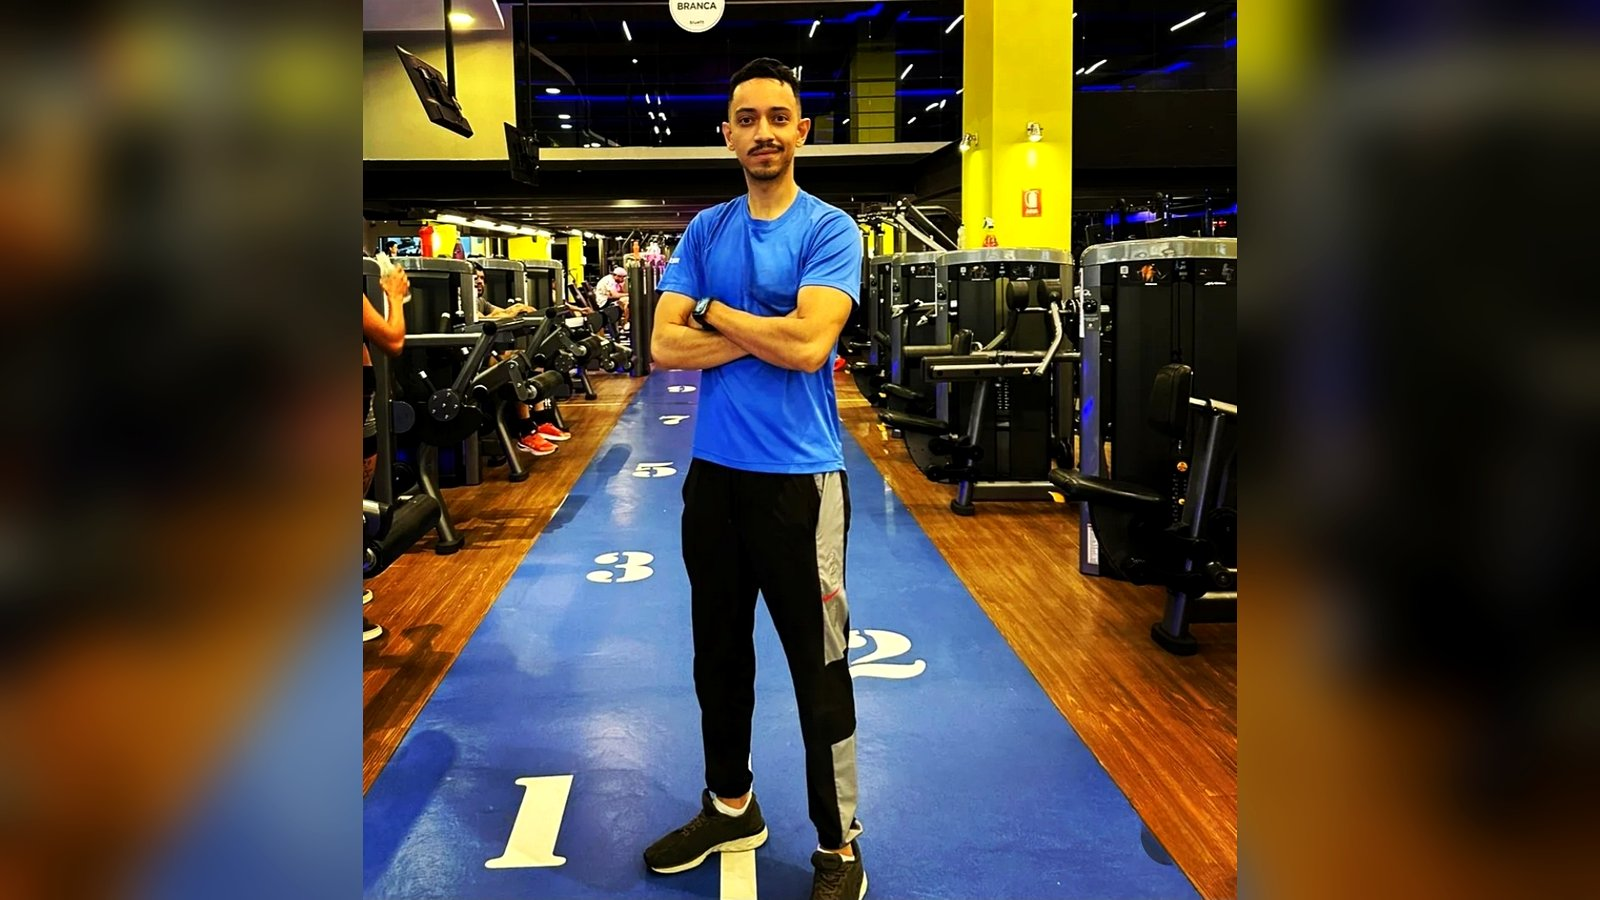
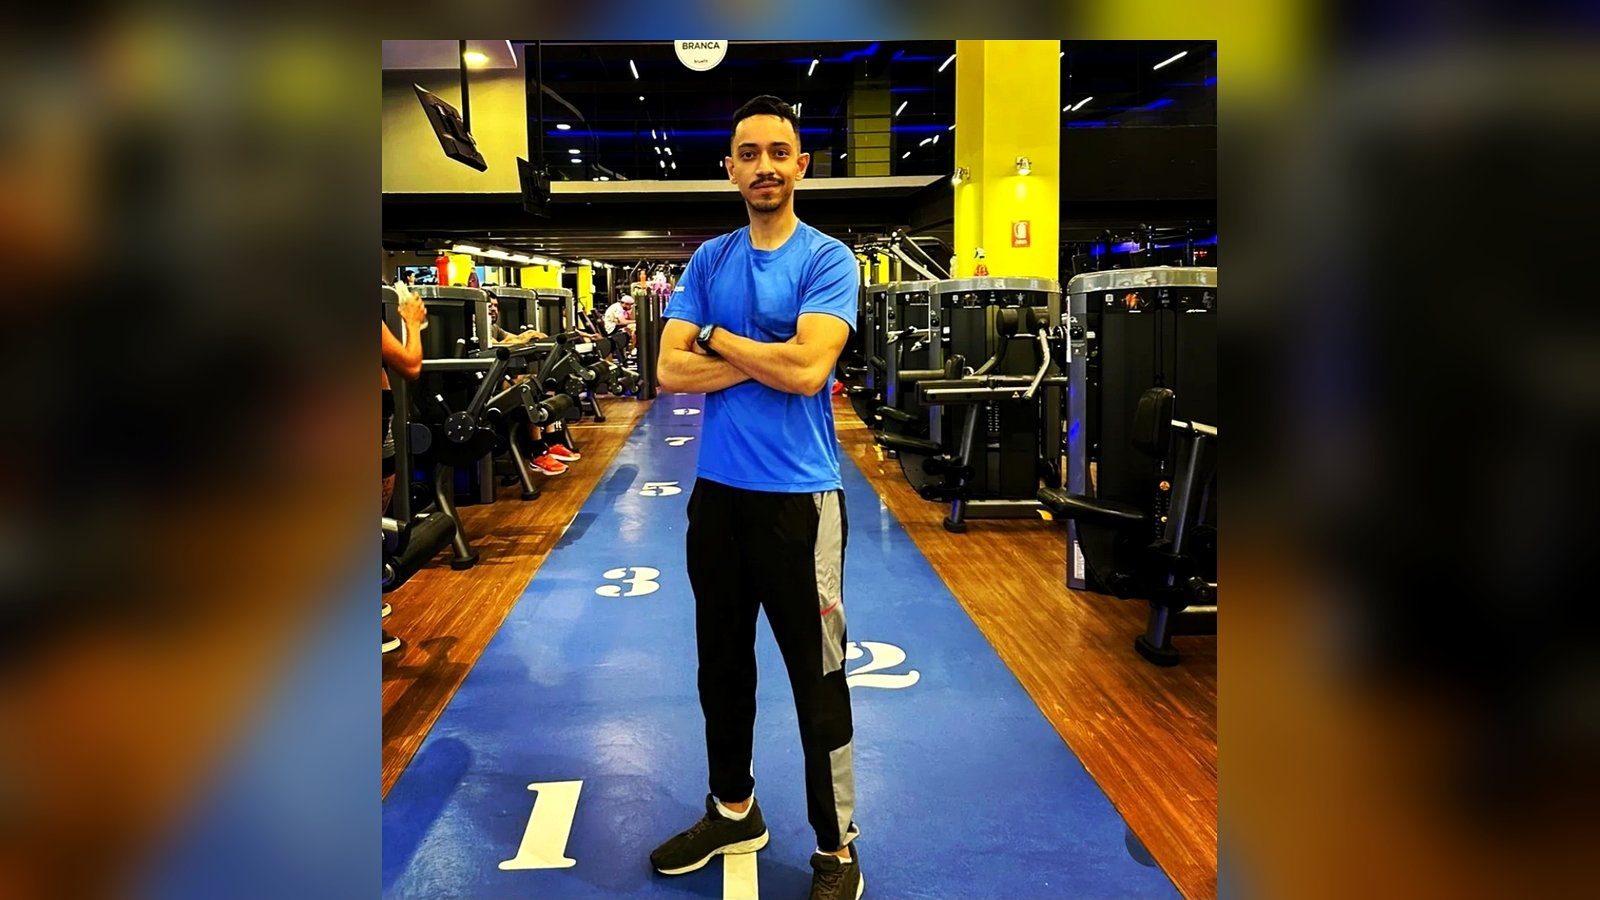
Add files via upload

Changed region(s): [[0.2188, 0.0, 0.7812, 1.0]]

diff --git a/index.html b/index.html
@@ -3,8 +3,23 @@
 <head>
   <meta charset="UTF-8">
   <meta name="viewport" content="width=device-width, initial-scale=1.0">
-  <title>Personal Trainer</title>
-  <meta name="description" content="Treinos personalizados com acompanhamento profissional. Atendimento presencial e consultoria online.">
+  <title>Lucas Lira · Personal Trainer em Goianira</title>
+  <meta name="description" content="Acompanhamento individualizado on-line e presencial em Goianira. +190 alunos transformados com o Método Waze. CREF-GO 15995.">
+    <!-- ===== Compartilhamento social (WhatsApp, Facebook, etc.) ===== -->
+  <meta property="og:type" content="website">
+  <meta property="og:title" content="Lucas Lira · Personal Trainer em Goianira">
+  <meta property="og:description" content="Acompanhamento individualizado on-line e presencial. +190 alunos já transformaram o corpo com o Método Waze. CREF-GO 15995.">
+  <meta property="og:image" content="https://lucaslirapersonal.com.br/img/slide1.jpg">
+  <meta property="og:image:width" content="1600">
+  <meta property="og:image:height" content="900">
+  <meta property="og:url" content="https://lucaslirapersonal.com.br/">
+  <meta property="og:locale" content="pt_BR">
+  <meta property="og:site_name" content="Lucas Lira Personal">
+  <meta name="twitter:card" content="summary_large_image">
+  <meta name="twitter:title" content="Lucas Lira · Personal Trainer em Goianira">
+  <meta name="twitter:description" content="Acompanhamento individualizado on-line e presencial. +190 alunos já transformaram o corpo com o Método Waze.">
+  <meta name="twitter:image" content="https://lucaslirapersonal.com.br/img/slide1.jpg">
+  <meta name="theme-color" content="#0A1628">
   <link rel="preconnect" href="https://fonts.googleapis.com">
   <link rel="preconnect" href="https://fonts.gstatic.com" crossorigin>
   <link href="https://fonts.googleapis.com/css2?family=Anton&family=Inter:wght@400;500;600;700&display=swap" rel="stylesheet">
@@ -82,7 +97,7 @@
     <div class="wrap sobre-in">
       <div class="sobre-img"><img id="img-sobre" src="" alt="Personal trainer em atendimento"></div>
       <div class="sobre-txt">
-        <p class="tag">Bloco A · Quem te acompanha</p>
+        <p class="tag">Sobre o profissional</p>
         <h2 id="sobre-titulo"></h2>
         <div id="sobre-paragrafos"></div>
         <div class="chips" id="sobre-chips"></div>
@@ -93,7 +108,7 @@
   <!-- ===== METODOLOGIA ===== -->
   <section class="metodo" id="metodologia">
     <div class="wrap">
-      <p class="tag tag-light">Bloco B · O método</p>
+      <p class="tag tag-light">Método</p>
       <h2 id="metodo-titulo"></h2>
       <p class="metodo-intro" id="metodo-intro"></p>
       <div class="grid-4" id="metodo-grid"></div>
@@ -104,7 +119,7 @@
   <!-- ===== SERVIÇOS ===== -->
   <section class="servicos section-light" id="servicos">
     <div class="wrap">
-      <p class="tag">Bloco C · Programas</p>
+      <p class="tag">Programas</p>
       <h2>Programas para cada objetivo</h2>
       <div class="grid-3" id="serv-grid"></div>
       <div class="center"><a class="btn btn-dark" id="serv-cta" href="#" target="_blank" rel="noopener"></a></div>
@@ -125,7 +140,7 @@
   <!-- ===== DEPOIMENTOS ===== -->
   <section class="depo" id="depoimentos">
     <div class="wrap">
-      <p class="tag tag-light">Bloco D · Quem já treina</p>
+      <p class="tag tag-light">Depoimentos</p>
       <h2>Resultados que vão além do espelho</h2>
       <div class="grid-3" id="depo-grid"></div>
       <p class="disclaimer" id="depo-disclaimer"></p>

diff --git a/config.js b/config.js
@@ -11,8 +11,8 @@ const CONFIG = {
   nome: "Lucas Lira",
   nomeCompleto: "Lucas Lira",
   cref: "CREF-GO 15995",
-  cidade: "Goiânia",
-  regiao: "Goiânia e região",
+  cidade: "Goianira",
+  regiao: "Goianira · Região Metropolitana",
   titulo: "Personal Trainer",
 
   /* ---------- CONTATO ---------- */
@@ -37,7 +37,7 @@ const CONFIG = {
   /* ---------- CARD CIDADE/HORA/TEMPO (ativo:false para ocultar) ---------- */
   clima: {
     ativo: true,
-    cidade: "Goiânia",
+    cidade: "Goianira",
     lat: -16.6869,
     lon: -49.2648,
     fuso: "America/Sao_Paulo"
@@ -115,7 +115,7 @@ const CONFIG = {
   servicos: [
     { titulo: "Consultoria On-line",     texto: "Acompanhamento individualizado a distância: treino exclusivo, vídeos de execução e suporte direto no WhatsApp." },
     { titulo: "Emagrecimento",           texto: "Estratégia focada em perda de gordura com rotina sustentável — o processo que já transformou mais de 190 alunos." },
-    { titulo: "Personal Presencial",     texto: "Aulas individuais em Goiânia com atenção total à execução e à progressão. Valores sob consulta." },
+    { titulo: "Personal Presencial",     texto: "Aulas individuais em Goianira com atenção total à execução e à progressão. Valores sob consulta." },
     { titulo: "Protocolo Joelho",        texto: "Treino adaptado para quem sente dores no joelho: fortalecer e evoluir sem agravar o desconforto." },
     { titulo: "Protocolo Ombro",         texto: "Progressão segura para quem tem limitações ou dores no ombro, com foco em mobilidade e estabilidade." },
     { titulo: "Protocolo Lombar",        texto: "Fortalecimento do core e reeducação de movimento para treinar forte convivendo com dor lombar." }
@@ -202,7 +202,7 @@ const CONFIG = {
   /* ---------- CTA FINAL ---------- */
   ctaFinal: {
     titulo: "Pronto para começar sua transformação?",
-    texto: "Acompanhamento individualizado, on-line ou presencial em Goiânia. Mais de 190 pessoas já fizeram esse caminho — a próxima pode ser você.",
+    texto: "Acompanhamento individualizado, on-line ou presencial em Goianira. Mais de 190 pessoas já fizeram esse caminho — a próxima pode ser você.",
     botao: "Chamar o Lucas no WhatsApp"
   },
 

diff --git a/styles.css b/styles.css
@@ -44,7 +44,7 @@ h2{font-size:clamp(1.7rem,3.4vw,2.5rem);margin-bottom:.6em}
 .nav-in{display:flex;justify-content:space-between;align-items:center;padding:14px 22px}
 .brand{font-family:'Anton',sans-serif;font-size:1.25rem;text-transform:uppercase;letter-spacing:.06em;display:flex;align-items:center;line-height:1.1}
 .brand-txt{display:flex;flex-direction:column}
-.brand-logo{height:54px;width:auto;display:block}
+.brand-logo{height:54px;width:auto;display:block;margin-right:14px}
 .brand small{font-family:'Inter',sans-serif;font-size:.62rem;font-weight:600;letter-spacing:.22em;color:var(--accent);text-transform:uppercase}
 .menu{display:flex;gap:26px;align-items:center;font-weight:600;font-size:.92rem}
 .menu a:hover{color:var(--accent)}
@@ -53,7 +53,7 @@ h2{font-size:clamp(1.7rem,3.4vw,2.5rem);margin-bottom:.6em}
 .burger{display:none;background:none;border:none;color:var(--txt-light);font-size:1.5rem;cursor:pointer}
 
 /* ---- Hero: slideshow de fundo com zoom lento (Ken Burns) ---- */
-.hero{position:relative;min-height:92vh;display:flex;align-items:center;justify-content:center;text-align:center;overflow:hidden;background:var(--ink)}
+.hero{position:relative;min-height:92vh;display:flex;align-items:center;justify-content:center;text-align:center;overflow:hidden;background:var(--ink) center/cover}
 .hero-slides,.hero-slide,.hero-overlay{position:absolute;inset:0}
 .hero-slide{background-size:cover;background-position:center;opacity:0;transition:opacity 1.6s ease}
 .hero-slide.active{opacity:1;animation:kenburns 8s ease-out forwards}
@@ -174,6 +174,7 @@ h2{font-size:clamp(1.7rem,3.4vw,2.5rem);margin-bottom:.6em}
 
 /* ---- CTA final ---- */
 .final{padding:90px 0;background:var(--ink)}
+@media(max-width:720px){.final-in{gap:24px}.final-img img{max-width:100%}}
 .final-in{display:grid;grid-template-columns:1.1fr .9fr;gap:52px;align-items:center}
 .final-txt p{color:#c9cdd2;margin:16px 0 30px;max-width:32em}
 .final-img img{border-radius:var(--radius);border:1px solid rgba(255,255,255,.08)}
@@ -181,6 +182,7 @@ h2{font-size:clamp(1.7rem,3.4vw,2.5rem);margin-bottom:.6em}
 /* ---- Rodapé ---- */
 .footer{background:#000;padding:56px 0 34px;font-size:.9rem;color:#a7adb4}
 .footer-grid{display:grid;grid-template-columns:repeat(3,1fr);gap:32px;margin-bottom:34px}
+.footer .footer-grid > div{min-width:0}
 .footer-brand{font-family:'Anton',sans-serif;font-size:1.3rem;color:#fff;text-transform:uppercase;letter-spacing:.05em}
 .footer-cref{color:var(--accent);font-weight:700;margin:4px 0 8px}
 .footer-h{font-weight:700;color:#fff;margin-bottom:8px;text-transform:uppercase;font-size:.78rem;letter-spacing:.12em}
@@ -196,11 +198,12 @@ h2{font-size:clamp(1.7rem,3.4vw,2.5rem);margin-bottom:.6em}
 }
 @media(max-width:720px){
   .brand-logo{height:44px}
-  .hero{min-height:86vh}
+  .hero{min-height:auto;padding:60px 0}
   .hero-logo{height:72px}
   .wa-float span{display:none}
   .wa-float{padding:14px}
   .stats-grid{grid-template-columns:1fr;gap:30px}
+  .footer-grid{grid-template-columns:1fr;gap:26px;text-align:left}
   .clima-card{top:12px;right:12px;padding:7px 14px;font-size:.78rem;gap:9px}
   .grid-3{grid-template-columns:1fr}
   .menu{display:none;position:absolute;top:100%;left:0;right:0;background:var(--ink);flex-direction:column;padding:18px 22px;gap:16px;border-bottom:1px solid rgba(255,255,255,.08)}